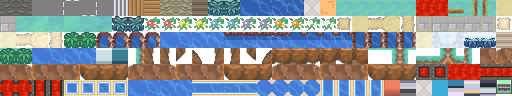
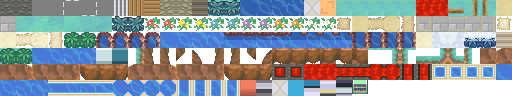
fix(odyssee): pentes de montagne et grottes de terre propres en Noir & Blanc, villages des îles habillés
Pièces de roche du kit sans les ombres grises semi-transparentes (plus de lignes en biais) ; roche brune du kit aussi dans les grottes de terre, sans variantes façon HeartGold ; décor de Port-Orage et Givrebourg.

Claude-Session: https://claude.ai/code/session_013Y6MKagoMQz6hMgEU2QtkG

Changed region(s): [[0.0, 0.625, 1.0, 1.0]]

diff --git a/odyssee/js/data/gfx-noirblanc.js b/odyssee/js/data/gfx-noirblanc.js
@@ -1,5 +1,5 @@
 // odyssee/js/data/gfx-noirblanc.js — écrit par tools/odyssee-pack-noirblanc.py (ne pas modifier à la main)
-export const NB_TUILES = ["ash0", "ash1", "asph", "asph_e", "asph_n", "asph_s", "asph_w", "asph_x", "bridgeEW", "bridgeNS", "cave0", "cave1", "cavestairs", "darktall0", "darktall1", "deep0", "deep1", "deep2", "deep3", "floor_blue", "floor_pink", "forest0", "forest1", "grass0", "grass1", "grass2", "lava0", "lava1", "ledge", "ledgeE", "ledgeW", "path0", "pave0", "pg_0_0", "pg_0_1", "pg_1_0", "pg_1_1", "pg_2_0", "pg_2_1", "q_darktall0", "q_darktall1", "q_flower0_f0", "q_flower0_f1", "q_flower1_f0", "q_flower1_f1", "q_flower2_f0", "q_flower2_f1", "q_flower3_f0", "q_flower3_f1", "q_flower4_f0", "q_flower4_f1", "q_flower5_f0", "q_flower5_f1", "q_path_0", "q_path_f", "q_path_h", "q_path_i", "q_path_v", "q_pave_0", "q_pave_f", "q_pave_h", "q_pave_i", "q_pave_v", "q_sand_0", "q_sand_f", "q_sand_h", "q_sand_i", "q_sand_v", "q_tall0", "q_tall1", "q_water_0_f0", "q_water_0_f1", "q_water_0_f2", "q_water_0_f3", "q_water_f_f0", "q_water_f_f1", "q_water_f_f2", "q_water_f_f3", "q_water_h_f0", "q_water_h_f1", "q_water_h_f2", "q_water_h_f3", "q_water_i_f0", "q_water_i_f1", "q_water_i_f2", "q_water_i_f3", "q_water_v_f0", "q_water_v_f1", "q_water_v_f2", "q_water_v_f3", "sand0", "snow0", "snow1", "snowtall0", "snowtall1", "stairs", "tall0", "tall1", "water0", "water1", "water2", "water3", "x_counter", "x_counterfront", "x_nbf_e", "x_nbf_fl_e_b", "x_nbf_fl_e_m", "x_nbf_fl_e_mur", "x_nbf_fl_e_t", "x_nbf_fl_w_b", "x_nbf_fl_w_m", "x_nbf_fl_w_mur", "x_nbf_fl_w_t", "x_nbf_mur_c", "x_nbf_mur_c_r", "x_nbf_mur_e", "x_nbf_mur_e_r", "x_nbf_mur_w", "x_nbf_mur_w_r", "x_nbf_n", "x_nbf_ne", "x_nbf_nw", "x_nbf_s", "x_nbf_se", "x_nbf_sw", "x_nbf_w", "x_nbr", "x_rp_mer_00", "x_rp_mer_01", "x_rp_mer_02", "x_rp_mer_10", "x_rp_mer_11", "x_rp_mer_12", "x_rp_mer_20", "x_rp_mer_21", "x_rp_mer_22", "x_rp_montagne_00", "x_rp_montagne_01", "x_rp_montagne_02", "x_rp_montagne_10", "x_rp_montagne_11", "x_rp_montagne_12", "x_rp_montagne_20", "x_rp_montagne_21", "x_rp_montagne_22", "x_rp_terre_00", "x_rp_terre_01", "x_rp_terre_02", "x_rp_terre_10", "x_rp_terre_11", "x_rp_terre_12", "x_rp_terre_20", "x_rp_terre_21", "x_rp_terre_22", "q_lava_0_f0", "q_lava_0_f1", "q_lava_f_f0", "q_lava_f_f1", "q_lava_h_f0", "q_lava_h_f1", "q_lava_i_f0", "q_lava_i_f1", "q_lava_v_f0", "q_lava_v_f1", "q_swater_0_f0", "q_swater_0_f1", "q_swater_0_f2", "q_swater_0_f3", "q_swater_f_f0", "q_swater_f_f1", "q_swater_f_f2", "q_swater_f_f3", "q_swater_h_f0", "q_swater_h_f1", "q_swater_h_f2", "q_swater_h_f3", "q_swater_i_f0", "q_swater_i_f1", "q_swater_i_f2", "q_swater_i_f3", "q_swater_v_f0", "q_swater_v_f1", "q_swater_v_f2", "q_swater_v_f3", "x_ccounter", "x_ccounterfront", "x_clounge", "x_mcounter", "x_mcounterfront", "x_murb_center", "x_murh_center", "x_shelf"];
+export const NB_TUILES = ["ash0", "ash1", "asph", "asph_e", "asph_n", "asph_s", "asph_w", "asph_x", "bridgeEW", "bridgeNS", "cave0", "cave1", "cavestairs", "darktall0", "darktall1", "deep0", "deep1", "deep2", "deep3", "floor_blue", "floor_pink", "forest0", "forest1", "grass0", "grass1", "grass2", "lava0", "lava1", "ledge", "ledgeE", "ledgeW", "path0", "pave0", "pg_0_0", "pg_0_1", "pg_1_0", "pg_1_1", "pg_2_0", "pg_2_1", "q_darktall0", "q_darktall1", "q_flower0_f0", "q_flower0_f1", "q_flower1_f0", "q_flower1_f1", "q_flower2_f0", "q_flower2_f1", "q_flower3_f0", "q_flower3_f1", "q_flower4_f0", "q_flower4_f1", "q_flower5_f0", "q_flower5_f1", "q_path_0", "q_path_f", "q_path_h", "q_path_i", "q_path_v", "q_pave_0", "q_pave_f", "q_pave_h", "q_pave_i", "q_pave_v", "q_sand_0", "q_sand_f", "q_sand_h", "q_sand_i", "q_sand_v", "q_tall0", "q_tall1", "q_water_0_f0", "q_water_0_f1", "q_water_0_f2", "q_water_0_f3", "q_water_f_f0", "q_water_f_f1", "q_water_f_f2", "q_water_f_f3", "q_water_h_f0", "q_water_h_f1", "q_water_h_f2", "q_water_h_f3", "q_water_i_f0", "q_water_i_f1", "q_water_i_f2", "q_water_i_f3", "q_water_v_f0", "q_water_v_f1", "q_water_v_f2", "q_water_v_f3", "sand0", "snow0", "snow1", "snowtall0", "snowtall1", "stairs", "tall0", "tall1", "water0", "water1", "water2", "water3", "x_counter", "x_counterfront", "x_nbf_e", "x_nbf_fl_e_b", "x_nbf_fl_e_m", "x_nbf_fl_e_mur", "x_nbf_fl_e_t", "x_nbf_fl_w_b", "x_nbf_fl_w_m", "x_nbf_fl_w_mur", "x_nbf_fl_w_t", "x_nbf_mur_c", "x_nbf_mur_c_r", "x_nbf_mur_e", "x_nbf_mur_e_r", "x_nbf_mur_w", "x_nbf_mur_w_r", "x_nbf_n", "x_nbf_ne", "x_nbf_nw", "x_nbf_s", "x_nbf_se", "x_nbf_sw", "x_nbf_w", "x_nbr", "x_rp_montagne_00", "x_rp_montagne_01", "x_rp_montagne_02", "x_rp_montagne_10", "x_rp_montagne_11", "x_rp_montagne_12", "x_rp_montagne_20", "x_rp_montagne_21", "x_rp_montagne_22", "x_rp_terre_00", "x_rp_terre_01", "x_rp_terre_02", "x_rp_terre_10", "x_rp_terre_11", "x_rp_terre_12", "x_rp_terre_20", "x_rp_terre_21", "x_rp_terre_22", "q_lava_0_f0", "q_lava_0_f1", "q_lava_f_f0", "q_lava_f_f1", "q_lava_h_f0", "q_lava_h_f1", "q_lava_i_f0", "q_lava_i_f1", "q_lava_v_f0", "q_lava_v_f1", "q_swater_0_f0", "q_swater_0_f1", "q_swater_0_f2", "q_swater_0_f3", "q_swater_f_f0", "q_swater_f_f1", "q_swater_f_f2", "q_swater_f_f3", "q_swater_h_f0", "q_swater_h_f1", "q_swater_h_f2", "q_swater_h_f3", "q_swater_i_f0", "q_swater_i_f1", "q_swater_i_f2", "q_swater_i_f3", "q_swater_v_f0", "q_swater_v_f1", "q_swater_v_f2", "q_swater_v_f3", "x_ccounter", "x_ccounterfront", "x_clounge", "x_mcounter", "x_mcounterfront", "x_murb_center", "x_murh_center", "x_shelf"];
 export const NB_COLS = 32;
 export const NB_DECOR = ["arbre_automne", "armoire", "automne0", "automne1", "automne2", "automne3", "automne4", "automne5", "banc", "barriere", "barriere_fin", "barriere_v", "barriere_v0", "bateau", "bed", "bench", "books", "borne", "bouee", "boxes", "brasero", "buisson_rose", "bush", "butte", "cactus", "cactus2", "caisse", "caisses", "caverock", "center_runner", "cerisier", "cloche", "clock", "colonne", "cristal", "cuttree", "darkfront", "darkfront2", "deadtree", "erable", "etai", "fence", "fontaine", "fossile", "fridge", "gargouille", "grassfront", "grassfront2", "gymstatue", "healer", "kitchen", "labmachine", "lamp", "lampe_mine", "lanterne", "mailbox", "martshelf", "minerai", "mregister", "painting", "palm", "parasol", "pc", "pine", "plant", "pot", "poteau", "rocher_grand", "rocher_sable", "rock", "roseaux", "sign", "snowfront", "snowfront2", "snowpine", "sofa", "squelette", "stalag", "statue", "statue_dragon", "stele", "table", "telescope", "tonneau", "torii", "tree", "tree2", "tree3", "tv", "vase", "wagonnet"];
 // bâtiments : nom → [largeur réelle en px, colonne du milieu de la porte (ou null)]

diff --git a/index.html b/index.html
@@ -25,7 +25,7 @@
 <link rel="preconnect" href="https://fonts.googleapis.com">
 <link rel="preconnect" href="https://fonts.gstatic.com" crossorigin>
 <link href="https://fonts.googleapis.com/css2?family=Bungee&family=Chakra+Petch:wght@500;600;700&display=swap" rel="stylesheet">
-<link rel="stylesheet" href="hub/hub.css?v=5.132">
+<link rel="stylesheet" href="hub/hub.css?v=5.133">
 </head>
 <body>
 
@@ -140,23 +140,23 @@
 <!-- JEU -->
 <section class="screen" id="play"></section>
 
-<script src="shared/logger.js?v=5.132"></script>
-<script src="shared/net.js?v=5.132"></script>
-<script src="shared/room.js?v=5.132"></script>
-<script src="shared/profile.js?v=5.132"></script>
-<script src="shared/results.js?v=5.132"></script>
-<script src="shared/volume.js?v=5.132"></script>
-<script src="shared/uisfx.js?v=5.132"></script>
-<script src="hub/nettest.js?v=5.132"></script>
-<script src="hub/games.js?v=5.132"></script>
-<script src="hub/account.js?v=5.132"></script>
-<script src="hub/vip.js?v=5.132"></script>
-<script src="hub/friends.js?v=5.132"></script>
-<script src="hub/hub.js?v=5.132"></script>
-<script src="hub/home.js?v=5.132"></script>
-<script src="hub/trailers.js?v=5.132"></script>
-<script src="shared/padnav.js?v=5.132"></script>
-<script src="hub/ingame.js?v=5.132"></script>
-<script type="module" src="hub/music.js?v=5.132"></script>
+<script src="shared/logger.js?v=5.133"></script>
+<script src="shared/net.js?v=5.133"></script>
+<script src="shared/room.js?v=5.133"></script>
+<script src="shared/profile.js?v=5.133"></script>
+<script src="shared/results.js?v=5.133"></script>
+<script src="shared/volume.js?v=5.133"></script>
+<script src="shared/uisfx.js?v=5.133"></script>
+<script src="hub/nettest.js?v=5.133"></script>
+<script src="hub/games.js?v=5.133"></script>
+<script src="hub/account.js?v=5.133"></script>
+<script src="hub/vip.js?v=5.133"></script>
+<script src="hub/friends.js?v=5.133"></script>
+<script src="hub/hub.js?v=5.133"></script>
+<script src="hub/home.js?v=5.133"></script>
+<script src="hub/trailers.js?v=5.133"></script>
+<script src="shared/padnav.js?v=5.133"></script>
+<script src="hub/ingame.js?v=5.133"></script>
+<script type="module" src="hub/music.js?v=5.133"></script>
 </body>
 </html>

diff --git a/odyssee/js/world/region.js b/odyssee/js/world/region.js
@@ -1091,7 +1091,11 @@ export function buildWorld() {
     const O = towns.O = {
       id: 'orage', name: 'Port-Orage', x: 352, y: 206, w: 28, h: 20, exits: [['w', 9], ['n', 13], ['e', 9]], stock: 3, music: 'island',
       roads: [[0, 9, 27, 10, T.PATH], [13, 0, 14, 19, T.PATH]],
-      deco: [['lamp', 12, 8], ['lamp', 15, 8], ['flowers', 16, 13, 18, 16], ['sign', 11, 11, 'PORT-ORAGE\nL\'île où gronde le tonnerre.'], ['rock', 24, 16]],
+      deco: [['lamp', 12, 8], ['lamp', 15, 8], ['flowers', 16, 13, 18, 16], ['sign', 11, 11, 'PORT-ORAGE\nL\'île où gronde le tonnerre.'], ['rock', 24, 16],
+        // un village de pêcheurs : caisses et tonneaux près du ponton, bouée, bancs, jardinets fleuris et clôtures
+        ['caisses', 2, 11], ['tonneau', 3, 11], ['tonneau', 2, 12], ['bouee', 1, 8], ['caisses', 24, 12], ['tonneau', 25, 12],
+        ['banc', 10, 12], ['banc', 17, 12], ['flowers', 8, 14, 9, 16], ['flowers', 23, 14, 24, 15],
+        ['fence', 2, 18, 11, 18], ['fence', 16, 18, 25, 18]],
       buildings: [
         { kind: 'center', x: 3, dx: -1, y: 3 }, { kind: 'mart', x: 8, dx: 1, y: 3 },
         { kind: 'tower', x: 21, y: 3, roof: 'red', name: 'Phare de l\'Orage', npcs: [{ id: 'gardien', x: 5, y: 4, sprite: 'scientifique', script: 'phare' }] },
@@ -1201,6 +1205,9 @@ export function buildWorld() {
       id: 'givre', name: 'Givrebourg', x: 350, y: 36, w: 28, h: 20, exits: [['w', 8], ['n', 14], ['e', 8]], stock: 6, music: 'snow', ground: T.SNOW, theme: 'snow',
       roads: [[0, 8, 27, 9, T.PATH], [14, 0, 15, 19, T.PATH]],
       deco: [['water', 22, 15, 3, 2], ['lamp', 13, 7], ['lamp', 16, 7], ['trees', 1, 16, 3, 18, T.PINE],
+        // au bout du monde : pins, lanternes allumées dans la neige, réserves des pêcheurs, clôture du lac gelé
+        ['trees', 24, 2, 26, 4, T.PINE], ['lanterne', 12, 11], ['lanterne', 17, 11], ['banc', 20, 11], ['tonneau', 2, 10], ['caisses', 3, 10],
+        ['fence', 18, 18, 26, 18], ['rock', 25, 12],
         ['sign', 11, 10, 'GIVREBOURG\nLe village au bout du monde.']],
       buildings: [
         { kind: 'center', x: 3, y: 2 }, { kind: 'mart', x: 9, dx: 1, y: 2 },

diff --git a/odyssee/js/render/world3d.js b/odyssee/js/render/world3d.js
@@ -939,7 +939,7 @@ export class WorldView {
     const open = (W ? 1 : 0) + (E ? 1 : 0) + (N ? 1 : 0) + (S ? 1 : 0);
     // falaise de montagne sur plusieurs gradins : sous une roche plus haute, la pente continue (pas de dessus de gradin)
     // graphismes Noir & Blanc (A.nbr) : la roche du kit, en plateaux à bords nets, sans les variantes façon HeartGold
-    const nb = !!A.nbr && m.outdoor;
+    const nb = !!A.nbr && (b === 'montagne' || b === 'terre');   // roche brune du kit : dehors comme dans les grottes de terre
     if (nb) inner[0] = inner[1] = false;   // pas de coins rentrants découpés en quarts : le kit n'en a pas
     if (!nb && m.outdoor && S && !W && !E && !N && m.get(x, y - 1) === T.CAVEWALL && !ravin(m, x, y - 1) && m.height(x, y - 1) > h0 && mont(m, x, y)) {
       const k = A[`rv_${b}_${Math.floor(v * 4)}`] || A[`rv_${b}_0`];

diff --git a/apropos.html b/apropos.html
@@ -13,7 +13,7 @@
 <link rel="preconnect" href="https://fonts.googleapis.com">
 <link rel="preconnect" href="https://fonts.gstatic.com" crossorigin>
 <link href="https://fonts.googleapis.com/css2?family=Bungee&family=Chakra+Petch:wght@500;600;700&display=swap" rel="stylesheet">
-<link rel="stylesheet" href="hub/hub.css?v=5.132">
+<link rel="stylesheet" href="hub/hub.css?v=5.133">
 <style>
   .doc{width:min(860px,100%);margin:0 auto;display:flex;flex-direction:column;gap:22px}
   .doc .card h2{margin-top:0}

diff --git a/hub/hub.js b/hub/hub.js
@@ -1,7 +1,7 @@
 /* Hub : profil, salon commun et lancement des jeux dans une iframe.
    Le salon (DDRoom) vit ici pendant toute la session : changer de jeu ne coupe pas la connexion. */
 (function () {
-  const VERSION = '5.132';
+  const VERSION = '5.133';
   const $ = (s) => document.querySelector(s);
   const ORIGIN = location.origin === 'null' ? '*' : location.origin;
   const GAMES = window.HUB_GAMES;

diff --git a/tools/odyssee-pack-noirblanc.py b/tools/odyssee-pack-noirblanc.py
@@ -277,7 +277,7 @@ T['ledgeW'] = over(G0, ledge_s.transpose(Image.ROTATE_270))
 # buttes d'herbe (plateaux du dehors) : le cadre « herbe sur roche » du kit (bord d'herbe tout autour, roche au pied et
 # sur les flancs), découpé sur la grille décalée d'une demi-case où il est dessiné. Pièces posées par world3d.js
 # (reliefDehors) sur les cases du bord du plateau (nbf_n, nbf_e…) et sur les cases de paroi (nbf_mur_*)
-FAL = lambda x, y: BW.crop((x, y, x + 32, y + 32))
+FAL = lambda x, y: net(BW.crop((x, y, x + 32, y + 32)))   # sans les ombres grises à demi transparentes du kit (elles faisaient des lignes en biais)
 Y0 = 14844   # haut du cadre (la lèvre d'herbe) ; le plateau fait 3 × 3 cases de x = 32 à 128, la paroi en dessous
 for nom, (fx, fy) in {'nw': (32, 0), 'n': (64, 0), 'ne': (96, 0), 'w': (32, 1), 'e': (96, 1),
                       'sw': (32, 2), 's': (64, 2), 'se': (96, 2), 'mur_w': (32, 3), 'mur_c': (64, 3), 'mur_e': (96, 3),
@@ -286,8 +286,9 @@ for nom, (fx, fy) in {'nw': (32, 0), 'n': (64, 0), 'ne': (96, 0), 'w': (32, 1), 
                       'fl_e_t': (128, 0), 'fl_e_m': (128, 1), 'fl_e_b': (128, 2), 'fl_e_mur': (128, 3)}.items():
     T['x_nbf_' + nom] = FAL(fx, Y0 + 32 * fy)
 # montagnes du dehors (world3d.js, paroiCell) : le plateau de roche du kit, 3 × 3 cases (dessus, lèvre claire, paroi au
-# sud), posé à la place des gradins façon HeartGold pour la roche brune ; la neige, le magma et la lune gardent les leurs
-for bio in ('montagne', 'terre', 'mer'):
+# sud), posé à la place des gradins façon HeartGold pour la roche brune (dehors et grottes de terre) ; la mer, la neige,
+# le magma et la lune gardent les leurs
+for bio in ('montagne', 'terre'):
     for R in range(3):
         for C in range(3):
             T[f'x_rp_{bio}_{R}{C}'] = FAL(160 + 32 * C, 14711 + 32 * R)

diff --git a/CHANGELOG.md b/CHANGELOG.md
@@ -1,5 +1,11 @@
 # Journal des versions — Arcadia
 
+## 5.133 — 20 novembre 2026
+- **Odyssée** — Graphismes Noir & Blanc :
+  - les pentes de montagne en escalier n'ont plus de traits gris en biais sur leurs bords ;
+  - dans les grottes de terre (Route Victoire, Mesas, Crêtes, Sables…), les parois prennent la roche brune du jeu, sans pièces dépareillées ; les grottes marines, de magma et de glace gardent leur roche à elles.
+- **Odyssée** — Port-Orage et Givrebourg s'habillent : caisses et tonneaux près du ponton, bouée, bancs, lanternes dans la neige, jardinets et clôtures.
+
 ## 5.132 — 20 novembre 2026
 - **Odyssée** — Graphismes Noir & Blanc : les reliefs prennent enfin les vraies pièces de Noir 2 & Blanc 2.
   - Les buttes d'herbe ont leur bord d'herbe, leurs flancs de roche et leur paroi brune, comme dans le jeu.
